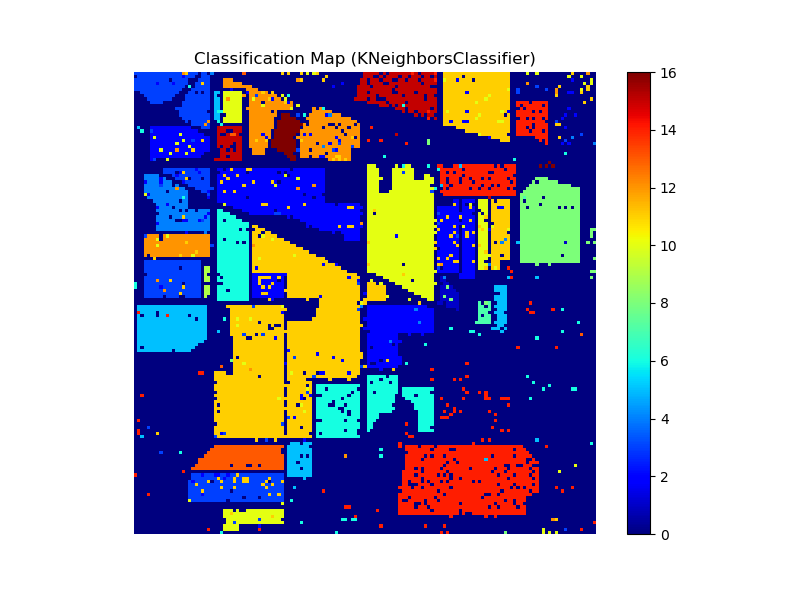
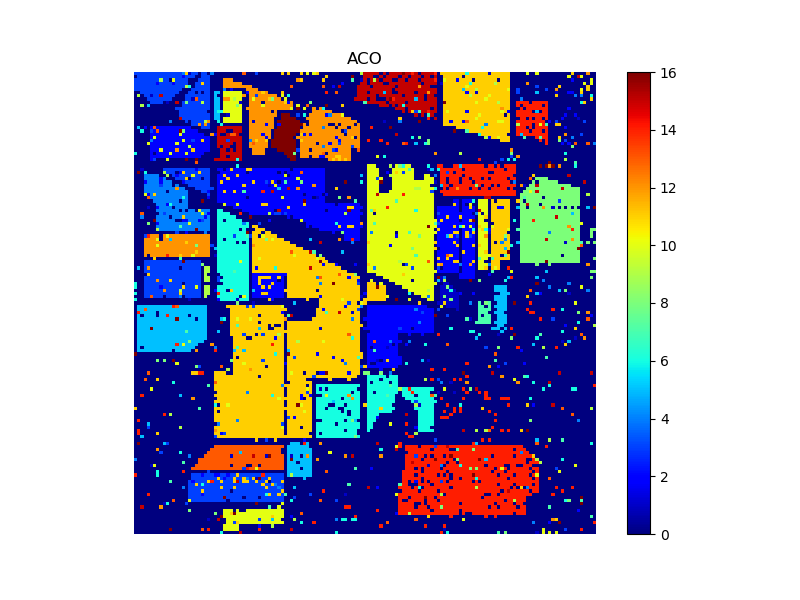
Metrics for ACO vs Classifier
Created metrics for ACO vs Classifier and continued the work for the algorithm itself.

diff --git a/Core.py b/Core.py
@@ -3,6 +3,7 @@ from sklearn.model_selection import train_test_split
 from sklearn.neighbors import KNeighborsClassifier
 from tqdm import tqdm
 import Auxiliary_Methods as am
+import random
 
 
 X, y = am.read_HSI()
@@ -11,6 +12,8 @@ X, y = am.read_HSI()
 
 # The below method extracts the pixels from the HSI and saves into CSV 
 df = am.extract_pixels(X, y)
+
+gt = df.iloc[:, -1].values.reshape((X.shape[0], X.shape[0]))  
 
 # X = (145*145, 200), y = (145*145, 1)
 X_flat = df.iloc[:, :-1].values
@@ -36,7 +39,7 @@ for i in tqdm(range(len(indices_test_flat))):
     clmap_flat[indices_test_flat[i]] = pre[i]
 
 # am.scores(df, y_test_flat, y_pred_flat)
-# am.show_gt_and_img(df, X, clmap_flat)
+# am.show_gt_classifierMap_ACOMap(df, X, clmap_flat)
 
 # ACO starts here
 
@@ -103,36 +106,40 @@ for i in range(eta.shape[0]):
                 eta[i][j][k] = 0.5
                 
 aco_map = clmap.copy()
-aco_map_test = aco_map.copy()
 
-p = np.zeros((aco_map.shape[0], aco_map.shape[0], no_of_classes.size))
+p = np.ones((aco_map.shape[0], aco_map.shape[0], no_of_classes.size))/17
 
 # no loop for epochs yet
 epochs = 1
-alpha, beta, rho, deltaTau = 1, 1, 0.5, 1
+alpha, beta, rho, deltaTau, epochs = 0.5, 5, 0.5, 10, 5
 
 
 
 # x, y = pixel coordinates, k = edge/class
-for i in range(aco_map.shape[0]):                    
-    for j in range(aco_map.shape[1]):
-        tauCopy = tau.copy()
-        for k in range(no_of_classes.size):
-            
-            p[i][j][k] = am.calcProbab(no_of_classes, i, j, k, tau, eta, alpha, beta)            
-            
-            # to be set to aco_map after it is tested 
-            # TO DO: set rand probab here
-                          
-            tauCopy[i][j][k] = am.update_tau_solution_based(tau[i][j][k], aco_map_test[i][j], k, rho, deltaTau)
-                                    
-            # TO DO: update_tau_spatial_based  
-            
-        aco_map_test[i][j] = np.argmax(p[i][j]) 
-        tau[i][j] = tauCopy[i][j]                    
+for ep in range(epochs):
+    for i in range(aco_map.shape[0]):                    
+        for j in range(aco_map.shape[1]):
+            tauCopy = tau.copy()
+            for k in range(no_of_classes.size):
                 
+                p[i][j][k] = am.calcProbab(no_of_classes, i, j, k, tau, eta, alpha, beta)            
                 
+                # to be set to aco_map after it is tested 
+                # TO DO: set rand probab here
+                              
+                tauCopy[i][j][k] = am.update_tau_solution_based(tau[i][j][k], aco_map[i][j], k, rho, deltaTau)
+                                        
+                # TO DO: update_tau_spatial_based  
+                    
+            tau[i][j] = tauCopy[i][j]   
+            ant_choice = np.random.choice(np.array(range(17)), p = p[i][j])
+            #aco_map[i][j] = np.argmax(p[i][j])      
+            aco_map[i][j] = ant_choice                  
                 
+am.show_gt_classifierMap_ACOMap(df, X, clmap, True, aco_map)        
+     
+am.myScore(gt, clmap, aco_map)
+            
 
                 
                 

diff --git a/Auxiliary_Methods.py b/Auxiliary_Methods.py
@@ -59,7 +59,7 @@ def scores(df, y_test_flat, y_pred_flat):
     print('Classification report:\n',classification_report(y_test_flat,y_pred_flat))
     
     
-def show_gt_and_img(df, X, clmap):
+def show_gt_classifierMap_ACOMap(df, X, clmap, aco_bool = False, aco_map = None):
     plt.figure(figsize=(8, 6))
     plt.imshow(df.iloc[:, -1].values.reshape((X.shape[0], X.shape[0])), cmap='jet')
     plt.colorbar()
@@ -74,6 +74,16 @@ def show_gt_and_img(df, X, clmap):
     plt.title('Classification Map (KNeighborsClassifier)')
     plt.savefig('Classification_map.png')
     plt.show()
+    
+    if aco_bool == True:
+        plt.figure(figsize=(8, 6))
+        plt.imshow(np.array(aco_map), cmap='jet')
+        plt.colorbar()
+        plt.axis('off')
+        plt.title('ACO')
+        plt.savefig('Classification_map.png')
+        plt.show()        
+            
     
     
 def calcProbab(no_of_classes, i, j, k, tau, eta, alpha = 1, beta = 1):
@@ -98,6 +108,24 @@ def update_tau_solution_based(tau, pixel_class, k, rho, deltaTau):
         retVal += deltaTau 
         
     return retVal
+
+def myScore(gt, clmap, aco_map):
+    matrix_classifier = np.zeros((clmap.shape[0], clmap.shape[0]))
+    matrix_aco = np.zeros((aco_map.shape[0], aco_map.shape[0]))
+    
+    for i in range(gt.shape[0]):
+        for j in range(gt.shape[1]):
+            if gt[i][j] != clmap[i][j]:                
+                matrix_classifier[i][j] = 1
+            if gt[i][j] != aco_map[i][j]:                
+                matrix_aco[i][j] = 1
+                
+    score_classifier = np.sum(matrix_classifier)
+    score_aco = np.sum(matrix_aco)
+    
+    print("Lower is better!")
+    print("score_classifier = " + str(score_classifier))
+    print("score_aco = " + str(score_aco))
 
 
 
